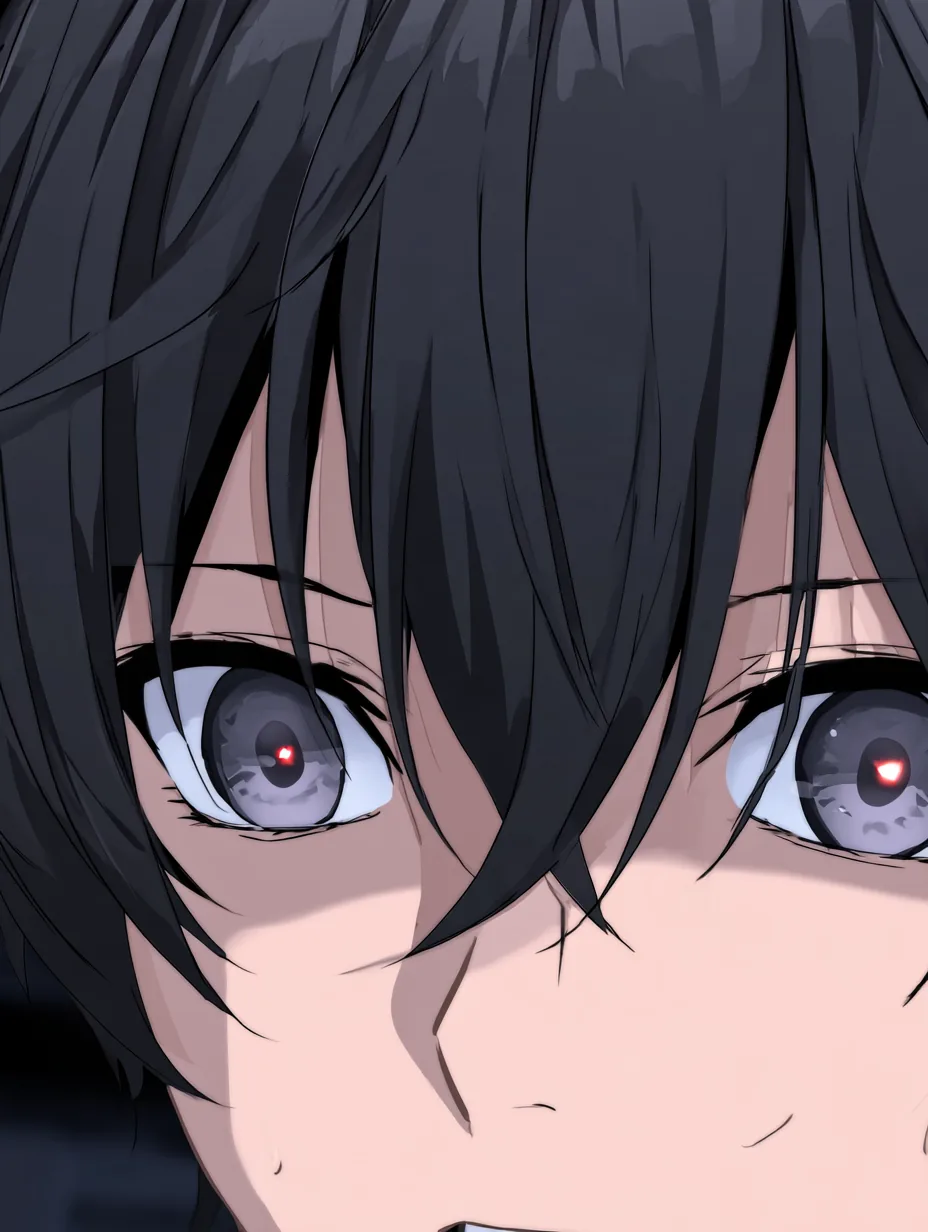
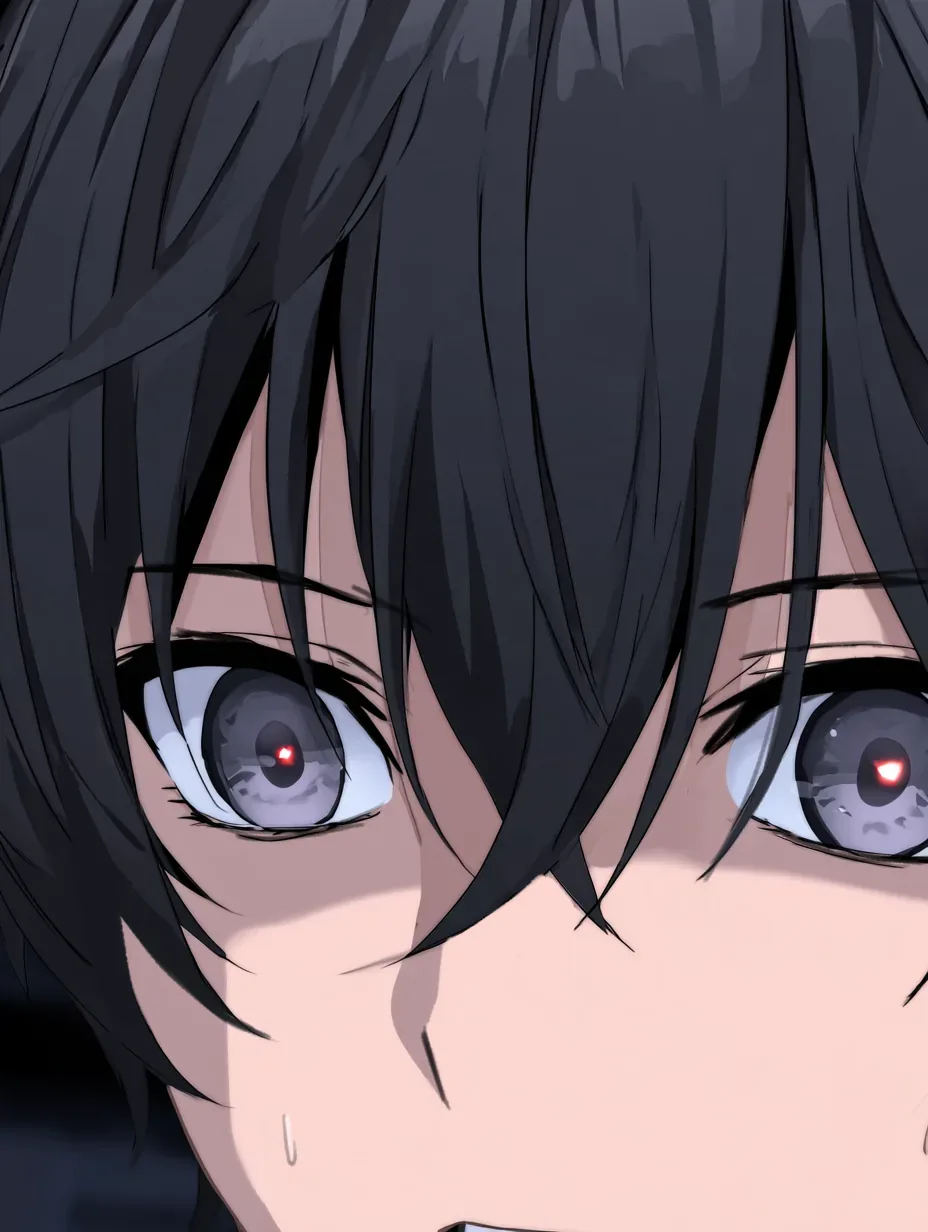
chore(cutscene): 생존자 방송 10번 칸을 새 그림으로 교체한다 (?v=3)

diff --git a/src/lib/assets.ts b/src/lib/assets.ts
@@ -95,7 +95,7 @@ export const ASSETS = {
     cutsceneSurvivor7: "/assets/images/cutscene-survivor-7.webp?v=2",
     cutsceneSurvivor8: "/assets/images/cutscene-survivor-8.webp?v=2",
     cutsceneSurvivor9: "/assets/images/cutscene-survivor-9.webp?v=2",
-    cutsceneSurvivor10: "/assets/images/cutscene-survivor-10.webp?v=2",
+    cutsceneSurvivor10: "/assets/images/cutscene-survivor-10.webp?v=3",
     /** '뒤집으면 보인다' 조사 에셋. */
     mgIdCardFront: "/assets/images/mg-id-card-front.webp",
     mgIdCardBack: "/assets/images/mg-id-card-back.webp",
